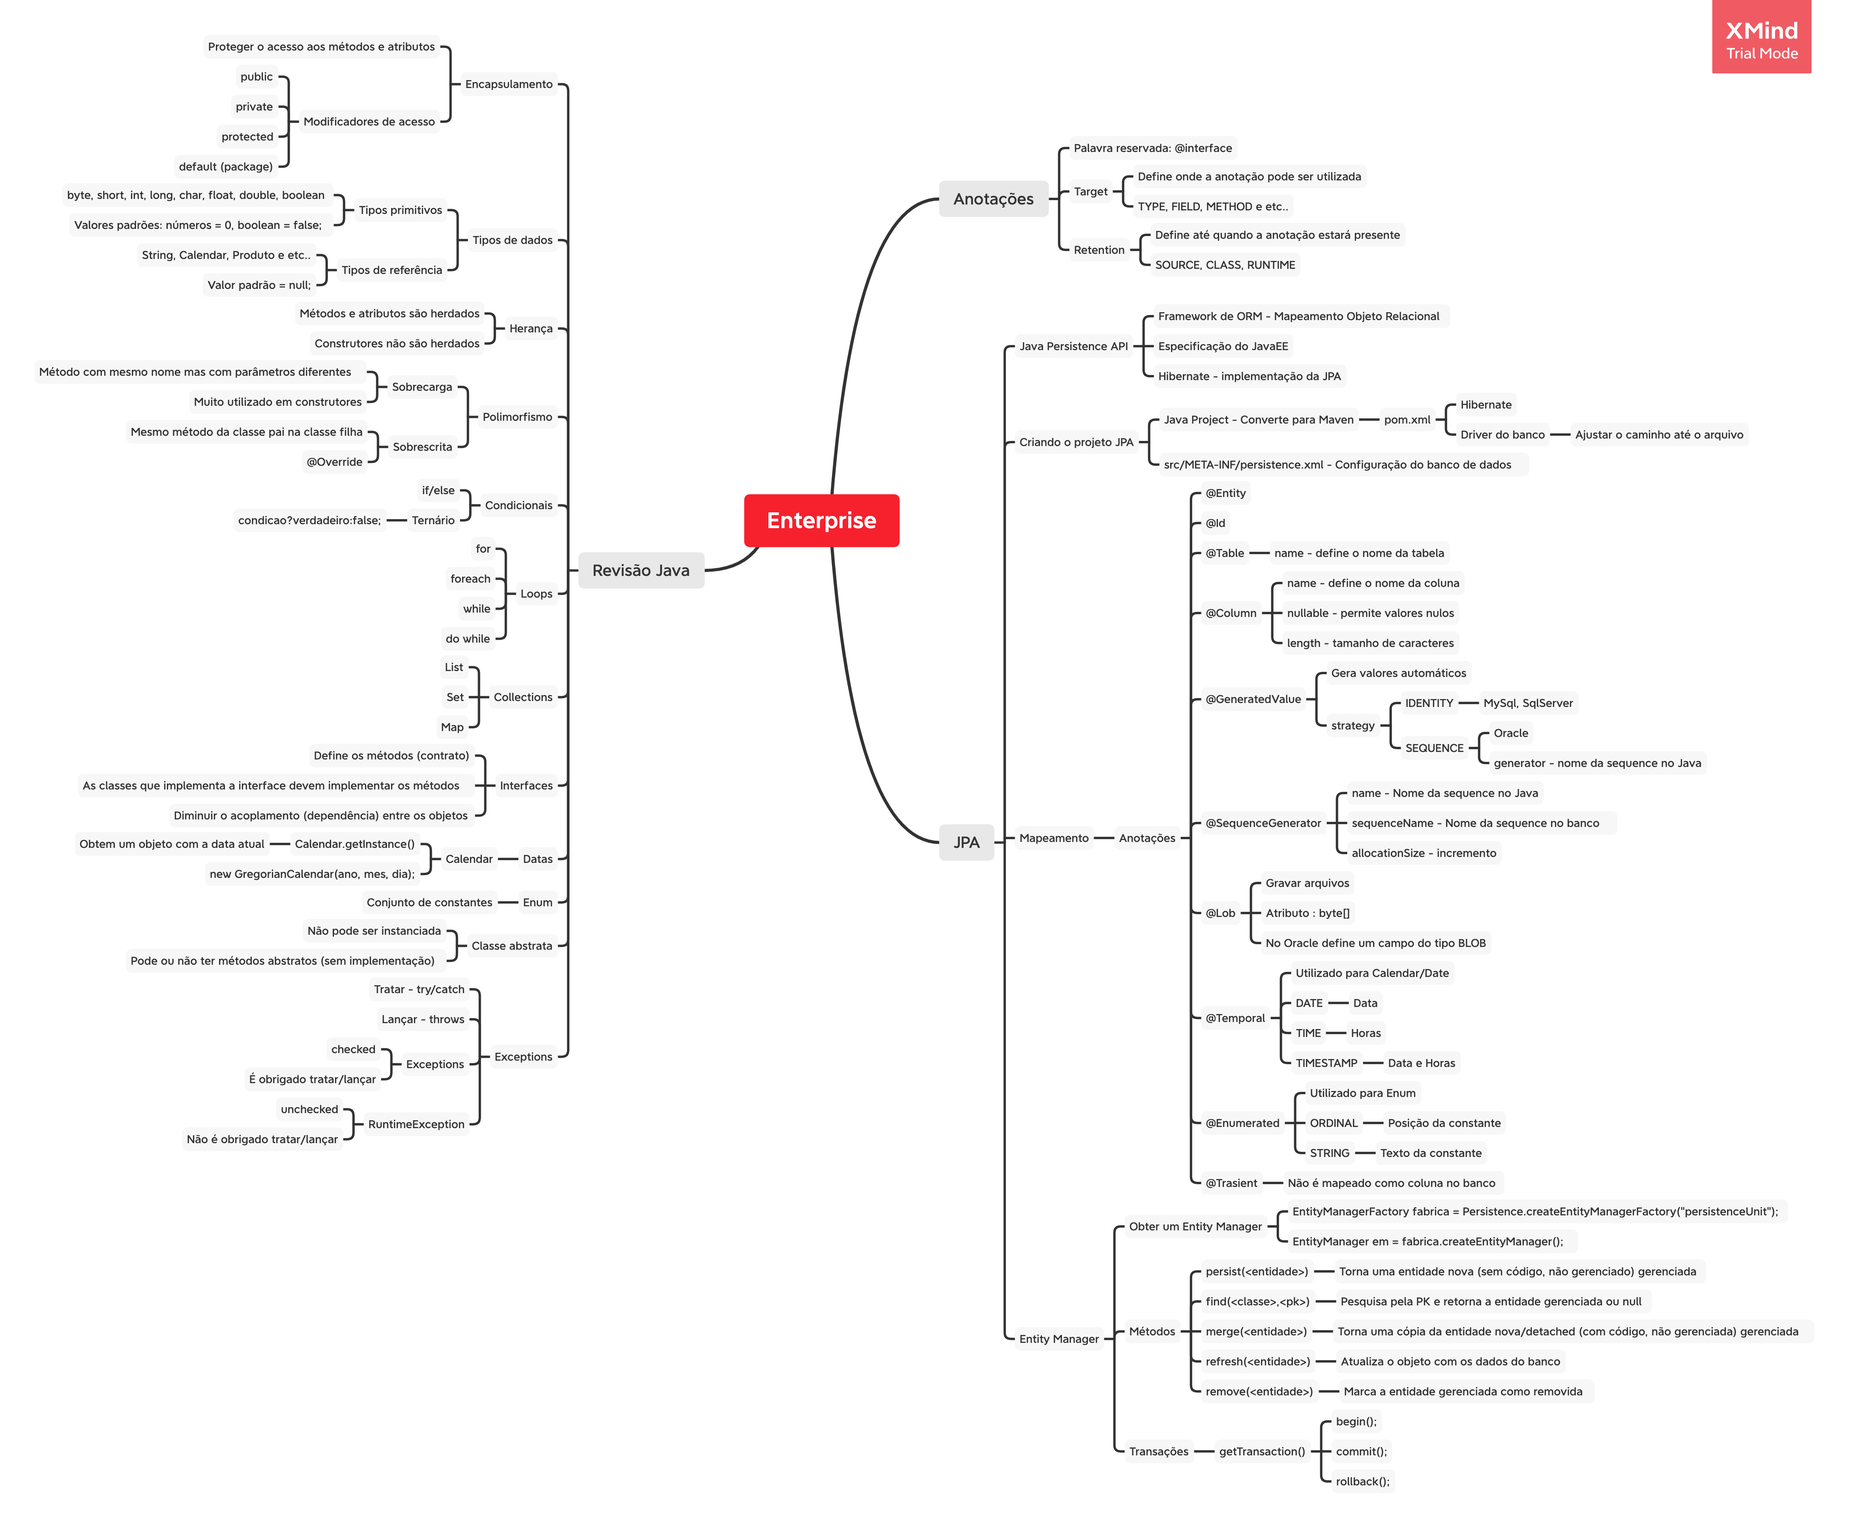
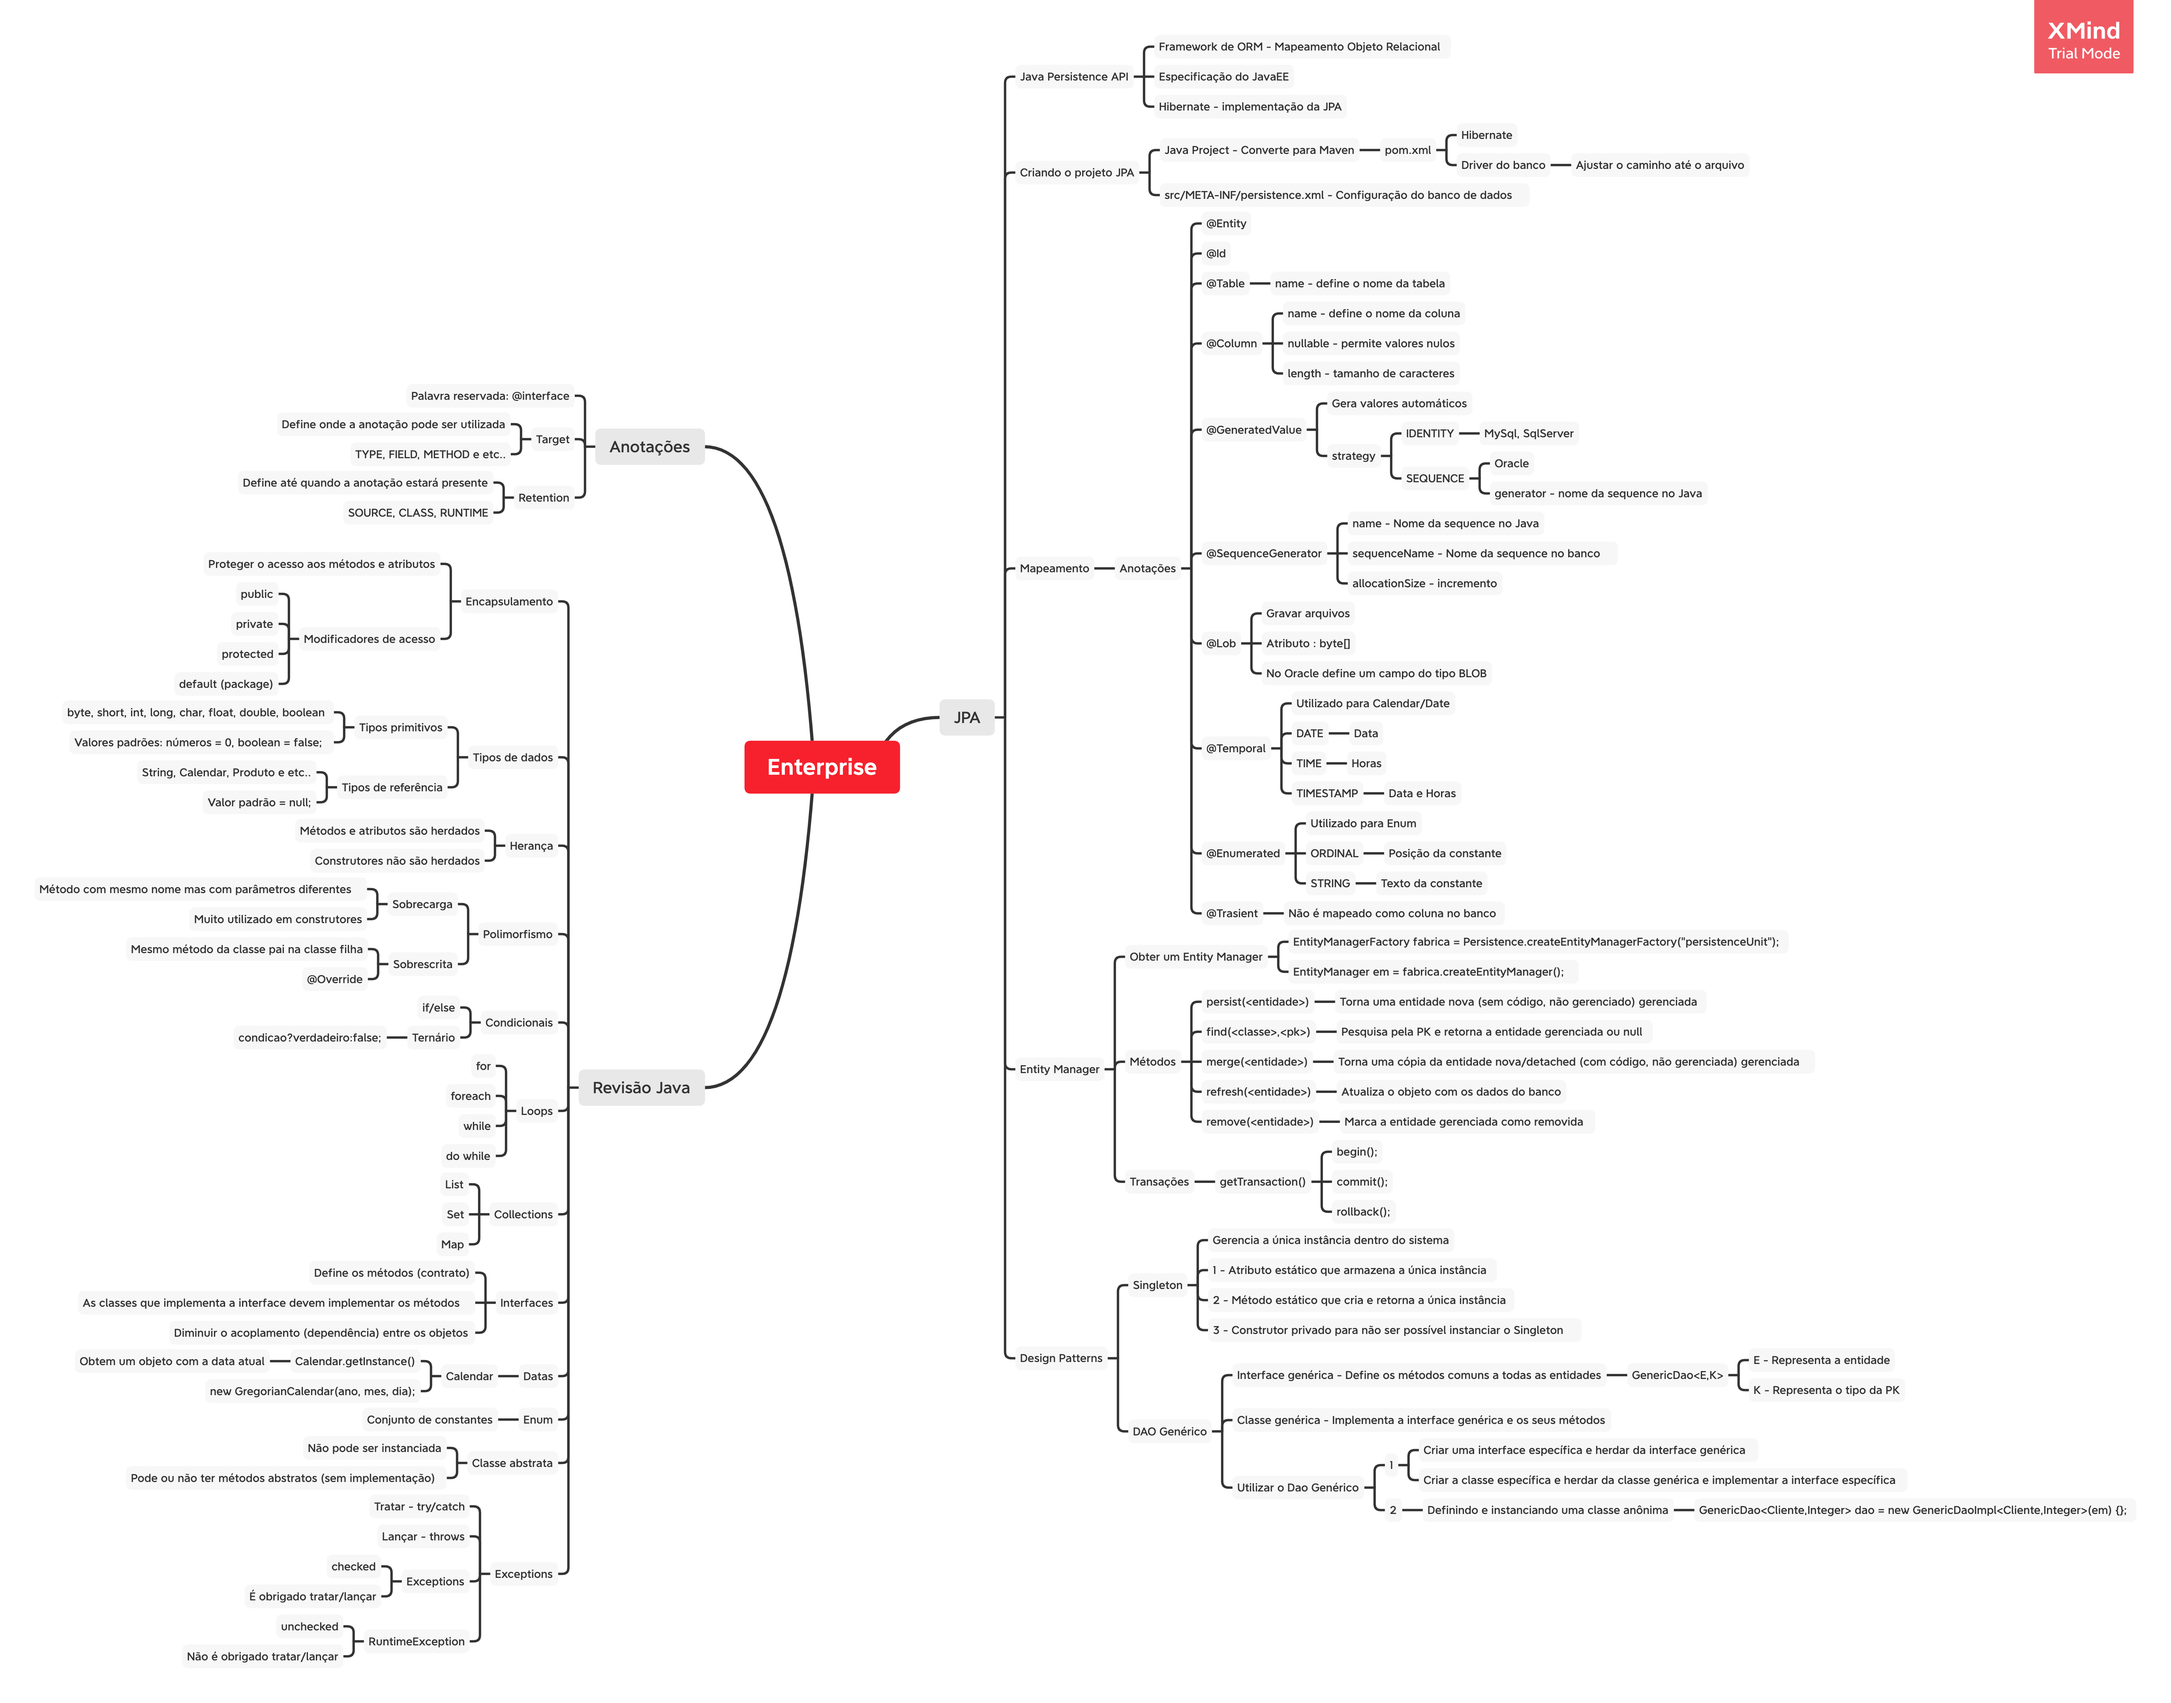
JPA com Singleton

diff --git a/05-JPA-DesignPatterns/src/br/com/fiap/tds/entity/Estabelecimento.java b/05-JPA-DesignPatterns/src/br/com/fiap/tds/entity/Estabelecimento.java
@@ -11,37 +11,36 @@ import javax.persistence.SequenceGenerator;
 import javax.persistence.Table;
 
 @Entity
-@Table(name = "TB_ESTABELECIMENTO")
-@SequenceGenerator(name = "estabelecimento", sequenceName = "SQ_ESTABELECIMENTO", allocationSize = 1)
+@Table(name="TB_ESTABELECIMENTO")
+@SequenceGenerator(name="est", sequenceName = "SQ_TB_ESTABELECIMENTO", allocationSize = 1)
 public class Estabelecimento {
+	
 	@Id
-	@GeneratedValue(strategy = GenerationType.SEQUENCE, generator = "estabelecimento")
-	@Column(name = "cd_estabelecimento")
+	@Column(name="cd_estabelecimento")
+	@GeneratedValue(generator = "est", strategy = GenerationType.SEQUENCE)
 	private int codigo;
-	@Column(name = "nm_estabelecimento", length = 70, nullable = false)
-	private String estabelecimento;
-	@Column(name = "nr_cnpj", length = 22, nullable = false)
+	
+	@Column(name="nm_estabelecimento", nullable = false, length = 70)
+	private String nome;
+	
+	@Column(name="nr_cnpj", length = 22, nullable = false)
 	private String cnpj;
-	@Column(name = "ds_tipo")
+	
 	@Enumerated(EnumType.STRING)
-	private TipoEmpresa tipo;
-
-	public Estabelecimento() {
-		super();
-		// TODO Auto-generated constructor stub
-	}
-
-	public Estabelecimento(String estabelecimento, String cnpj, TipoEmpresa tipo) {
-		super();
-		this.estabelecimento = estabelecimento;
+	@Column(name="ds_tipo", length = 20)
+	private Tipo tipo;
+	
+	public Estabelecimento() {}
+	
+	public Estabelecimento(String nome, String cnpj, Tipo tipo) {
+		this.nome = nome;
 		this.cnpj = cnpj;
 		this.tipo = tipo;
 	}
-
-	public Estabelecimento(int codigo, String estabelecimento, String cnpj, TipoEmpresa tipo) {
-		super();
+	
+	public Estabelecimento(int codigo, String nome, String cnpj, Tipo tipo) {
 		this.codigo = codigo;
-		this.estabelecimento = estabelecimento;
+		this.nome = nome;
 		this.cnpj = cnpj;
 		this.tipo = tipo;
 	}
@@ -54,12 +53,12 @@ public class Estabelecimento {
 		this.codigo = codigo;
 	}
 
-	public String getEstabelecimento() {
-		return estabelecimento;
+	public String getNome() {
+		return nome;
 	}
 
-	public void setEstabelecimento(String estabelecimento) {
-		this.estabelecimento = estabelecimento;
+	public void setNome(String nome) {
+		this.nome = nome;
 	}
 
 	public String getCnpj() {
@@ -70,11 +69,12 @@ public class Estabelecimento {
 		this.cnpj = cnpj;
 	}
 
-	public TipoEmpresa getTipo() {
+	public Tipo getTipo() {
 		return tipo;
 	}
 
-	public void setTipo(TipoEmpresa tipo) {
+	public void setTipo(Tipo tipo) {
 		this.tipo = tipo;
 	}
+	
 }

diff --git a/05-JPA-DesignPatterns/src/br/com/fiap/tds/entity/Fornecedor.java b/05-JPA-DesignPatterns/src/br/com/fiap/tds/entity/Fornecedor.java
@@ -1,6 +1,6 @@
 package br.com.fiap.tds.entity;
 
-import java.sql.Date;
+import java.util.Calendar;
 
 import javax.persistence.Column;
 import javax.persistence.Entity;
@@ -15,30 +15,30 @@ import javax.persistence.TemporalType;
 import org.hibernate.annotations.CreationTimestamp;
 
 @Entity
-@Table(name = "TB_ESTABELECIMENTO")
-@SequenceGenerator(name = "fornecedor", sequenceName = "SQ_FORNECEDOR", allocationSize = 1)
+@Table(name="TB_FORNECEDOR")
+@SequenceGenerator(name="for", sequenceName = "SQ_TB_FORNECEDOR", allocationSize = 1)
 public class Fornecedor {
+	
 	@Id
-	@GeneratedValue(strategy = GenerationType.SEQUENCE, generator = "fornecedor")
-	@Column(name = "cd_fornecedor")
+	@Column(name="cd_fornecedor")
+	@GeneratedValue(strategy = GenerationType.SEQUENCE, generator = "for")
 	private int codigo;
-	@Column(name = "nm_fornecedor", length = 60, nullable = false)
+	
+	@Column(name="nm_fornecedor", length = 60, nullable = false)
 	private String nome;
-	@Column(name = "dt_cadastro", updatable = false)
-	@Temporal(TemporalType.TIMESTAMP)
+	
 	@CreationTimestamp
-	private Date dataCadastro;
-
-	public Fornecedor() {
-	}
-
+	@Temporal(TemporalType.TIMESTAMP)
+	@Column(name="dt_cadastro", updatable = false)
+	private Calendar dataCadastro;
+	
+	public Fornecedor() {}
+	
 	public Fornecedor(String nome) {
-		super();
 		this.nome = nome;
 	}
 
 	public Fornecedor(int codigo, String nome) {
-		super();
 		this.codigo = codigo;
 		this.nome = nome;
 	}
@@ -59,11 +59,12 @@ public class Fornecedor {
 		this.nome = nome;
 	}
 
-	public Date getDataCadastro() {
+	public Calendar getDataCadastro() {
 		return dataCadastro;
 	}
 
-	public void setDataCadastro(Date dataCadastro) {
+	public void setDataCadastro(Calendar dataCadastro) {
 		this.dataCadastro = dataCadastro;
 	}
+	
 }

diff --git a/05-JPA-DesignPatterns/src/br/com/fiap/tds/entity/Cliente.java b/05-JPA-DesignPatterns/src/br/com/fiap/tds/entity/Cliente.java
@@ -1,0 +1,70 @@
+package br.com.fiap.tds.entity;
+
+import javax.persistence.*;
+
+@Entity
+@Table(name="TB_CLIENTE")
+@SequenceGenerator(name = "cli", sequenceName = "SQ_TB_CLIENTE", allocationSize = 1)
+public class Cliente {
+
+	@Id
+	@Column(name = "CD_CLIENTE")
+	@GeneratedValue(strategy = GenerationType.SEQUENCE, generator = "cli")
+	private int codigo;
+	
+	@Column(name = "NM_CLIENTE", length = 50, nullable = false)
+	private String nome;
+	
+	@Column(name = "NR_CPF", length = 22)
+	private String cpf;
+	
+	@Column(name = "ST_ATIVO")
+	private boolean ativo;
+
+	public Cliente() {}
+	
+	public Cliente(String nome, String cpf, boolean ativo) {
+		this.nome = nome;
+		this.cpf = cpf;
+		this.ativo = ativo;
+	}
+	
+	public Cliente(int codigo, String nome, String cpf, boolean ativo) {
+		this.codigo = codigo;
+		this.nome = nome;
+		this.cpf = cpf;
+		this.ativo = ativo;
+	}
+
+	public int getCodigo() {
+		return codigo;
+	}
+
+	public void setCodigo(int codigo) {
+		this.codigo = codigo;
+	}
+
+	public String getNome() {
+		return nome;
+	}
+
+	public void setNome(String nome) {
+		this.nome = nome;
+	}
+
+	public String getCpf() {
+		return cpf;
+	}
+
+	public void setCpf(String cpf) {
+		this.cpf = cpf;
+	}
+
+	public boolean isAtivo() {
+		return ativo;
+	}
+
+	public void setAtivo(boolean ativo) {
+		this.ativo = ativo;
+	}
+}

diff --git a/05-JPA-DesignPatterns/src/br/com/fiap/tds/dao/impl/GenericDaoImpl.java b/05-JPA-DesignPatterns/src/br/com/fiap/tds/dao/impl/GenericDaoImpl.java
@@ -1,23 +1,24 @@
 package br.com.fiap.tds.dao.impl;
 
-import java.lang.reflect.ParameterizedType;
 
 import javax.persistence.EntityManager;
-
 import br.com.fiap.tds.dao.GenericDao;
 import br.com.fiap.tds.exception.CommitException;
 import br.com.fiap.tds.exception.EntityNotFoundException;
 
-public abstract class GenericDaoImpl<E, K> implements GenericDao<E, K> {
+import java.lang.reflect.ParameterizedType;
 
+public abstract class GenericDaoImpl<E,K> implements GenericDao<E, K> {
+	
 	private EntityManager em;
 	
-	private Class<E> clazz; //Atributo que armazena o .class da Entidade
-
+	private Class<E> clazz; // Atributo que armazena o .class da Entidade
+	
 	@SuppressWarnings("all")
 	public GenericDaoImpl(EntityManager em) {
 		this.em = em;
-		this.clazz = (Class<E>) ((ParameterizedType)getClass().getGenericSuperclass()).getActualTypeArguments()[0];
+		this.clazz = (Class<E>) ((ParameterizedType) 
+				getClass().getGenericSuperclass()).getActualTypeArguments()[0];
 	}
 
 	@Override
@@ -28,10 +29,9 @@ public abstract class GenericDaoImpl<E, K> implements GenericDao<E, K> {
 	@Override
 	public E search(K id) throws EntityNotFoundException {
 		E entidade = em.find(clazz, id);
-		if (entidade == null) {
+		if (entidade == null)
 			throw new EntityNotFoundException();
-		}
-		return null;
+		return entidade;
 	}
 
 	@Override

diff --git a/05-JPA-DesignPatterns/src/br/com/fiap/tds/dao/impl/EstabelecimentoDaoImpl.java b/05-JPA-DesignPatterns/src/br/com/fiap/tds/dao/impl/EstabelecimentoDaoImpl.java
@@ -1,0 +1,14 @@
+package br.com.fiap.tds.dao.impl;
+
+import javax.persistence.EntityManager;
+
+import br.com.fiap.tds.dao.EstabelecimentoDao;
+import br.com.fiap.tds.entity.Estabelecimento;
+
+public class EstabelecimentoDaoImpl extends GenericDaoImpl<Estabelecimento, Integer> implements EstabelecimentoDao {
+
+	public EstabelecimentoDaoImpl(EntityManager em) {
+		super(em);
+	}
+
+}

diff --git a/05-JPA-DesignPatterns/src/br/com/fiap/tds/dao/impl/FornecedorDaoImpl.java b/05-JPA-DesignPatterns/src/br/com/fiap/tds/dao/impl/FornecedorDaoImpl.java
@@ -1,0 +1,14 @@
+package br.com.fiap.tds.dao.impl;
+
+import javax.persistence.EntityManager;
+
+import br.com.fiap.tds.dao.FornecedorDao;
+import br.com.fiap.tds.entity.Fornecedor;
+
+public class FornecedorDaoImpl extends GenericDaoImpl<Fornecedor, Integer> implements FornecedorDao{
+
+	public FornecedorDaoImpl(EntityManager em) {
+		super(em);
+	}
+
+}

diff --git a/05-JPA-DesignPatterns/src/br/com/fiap/tds/dao/EstabelecimentoDao.java b/05-JPA-DesignPatterns/src/br/com/fiap/tds/dao/EstabelecimentoDao.java
@@ -1,0 +1,8 @@
+package br.com.fiap.tds.dao;
+
+import br.com.fiap.tds.entity.Estabelecimento;
+
+public interface EstabelecimentoDao extends GenericDao <Estabelecimento, Integer> {	
+	
+	
+}

diff --git a/05-JPA-DesignPatterns/src/br/com/fiap/tds/dao/FornecedorDao.java b/05-JPA-DesignPatterns/src/br/com/fiap/tds/dao/FornecedorDao.java
@@ -1,0 +1,7 @@
+package br.com.fiap.tds.dao;
+
+import br.com.fiap.tds.entity.Fornecedor;
+
+public interface FornecedorDao extends GenericDao <Fornecedor, Integer>{
+
+}

diff --git a/05-JPA-DesignPatterns/src/br/com/fiap/tds/entity/Tipo.java b/05-JPA-DesignPatterns/src/br/com/fiap/tds/entity/Tipo.java
@@ -1,5 +1,5 @@
 package br.com.fiap.tds.entity;
 
-public enum TipoEmpresa {
+public enum Tipo {
 	MATRIZ, FILIAL
 }
